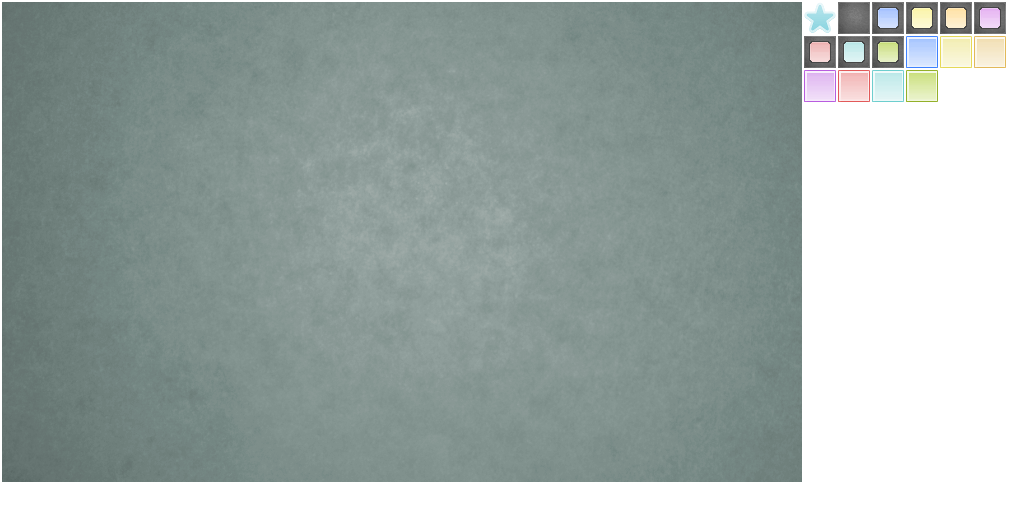
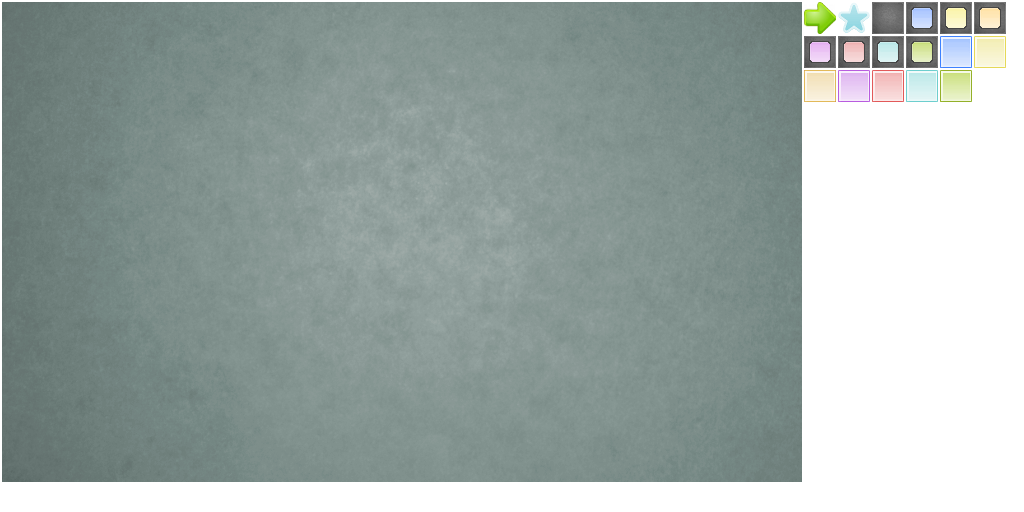
Added arrows. Added LevelScene class. Stars disappear from now!

Changed region(s): [[0.7812, 0.0, 1.0, 0.2188]]

diff --git a/src/com/bugfullabs/qube/level/LevelSceneFactory.java b/src/com/bugfullabs/qube/level/LevelSceneFactory.java
@@ -1,10 +1,10 @@
 package com.bugfullabs.qube.level;
 
-import org.anddev.andengine.entity.scene.Scene;
 import org.anddev.andengine.entity.scene.background.SpriteBackground;
 import org.anddev.andengine.entity.sprite.Sprite;
 import org.anddev.andengine.extension.texturepacker.opengl.texture.util.texturepacker.TexturePack;
 
+import com.bugfullabs.qube.game.CubeEntity;
 import com.bugfullabs.qube.game.GameValues;
 
 
@@ -29,13 +29,13 @@ public class LevelSceneFactory{
 	public static final int END6_ID = 13;
 	public static final int SOLID_ID = 14;
 	public static final int STAR_ID = 15;	
-	public static final int BG_ID = 16;
-	
+	public static final int BG_ID = 17;
+	public static final int ARROW_ID = 16;
 
 	
-	public static Scene createScene(Level level, TexturePack txPack){	
+	public static LevelScene createScene(Level level, TexturePack txPack){	
 			
-			Scene levelScene = new Scene();	
+			LevelScene levelScene = new LevelScene(level.getNumberOfCubes());	
 			  
 			levelScene.setBackground(new SpriteBackground(new Sprite(0, 0, txPack.getTexturePackTextureRegionLibrary().get(BG_ID))));
 
@@ -50,7 +50,7 @@ public class LevelSceneFactory{
 		    		  break;
 
 		    	  case GameValues.ITEM_STAR:	//STAR
-		    		  levelScene.attachChild(new Sprite(i*32, j*32, txPack.getTexturePackTextureRegionLibrary().get(STAR_ID)));
+		    		  levelScene.addStar(new Sprite(i*32, j*32, txPack.getTexturePackTextureRegionLibrary().get(STAR_ID)));
 		    		  break;
 		    		  
 			  	  default:
@@ -73,6 +73,45 @@ public class LevelSceneFactory{
 				level.getCube(i).setTextureRegion(txPack.getTexturePackTextureRegionLibrary().get(level.getCube(i).getColor()));
 				level.getCube(i).attachToScene(levelScene);
 				level.getCube(i).setPosition(level.getCube(i).getX(), level.getCube(i).getY());
+			
+				Sprite arrow = new Sprite(level.getCube(i).getX(), level.getCube(i).getY(), txPack.getTexturePackTextureRegionLibrary().get(ARROW_ID));
+				
+				
+				switch(level.getCube(i).getDirection()){
+				
+				case CubeEntity.DIRECTION_FORWARD:
+					arrow.setPosition(level.getCube(i).getX(), level.getCube(i).getY()-32);
+					arrow.setRotation(270);
+					levelScene.attachChild(arrow);
+				
+					break;
+					
+				case CubeEntity.DIRECTION_BACKWARD:
+					arrow.setPosition(level.getCube(i).getX(), level.getCube(i).getY()+32);
+					arrow.setRotation(90);
+					levelScene.attachChild(arrow);
+				
+					break;
+					
+				case CubeEntity.DIRECTION_LEFT:
+					
+					arrow.setPosition(level.getCube(i).getX()-32, level.getCube(i).getY());
+					arrow.setRotation(180);
+					levelScene.attachChild(arrow);
+				
+					break;
+	
+				case CubeEntity.DIRECTION_RIGHT:
+					arrow.setPosition(level.getCube(i).getX()+32, level.getCube(i).getY());
+					arrow.setRotation(0);
+					levelScene.attachChild(arrow);
+
+					break;
+	
+					
+				}
+			
+				
 			}
 			
 			

diff --git a/src/com/bugfullabs/qube/GameActivity.java b/src/com/bugfullabs/qube/GameActivity.java
@@ -29,6 +29,7 @@ import android.graphics.Typeface;
 import android.util.Log;
 import com.bugfullabs.qube.level.Level;
 import com.bugfullabs.qube.level.LevelFileReader;
+import com.bugfullabs.qube.level.LevelScene;
 import com.bugfullabs.qube.level.LevelSceneFactory;
 import com.bugfullabs.qube.util.AlignedText;
 import com.bugfullabs.qube.util.Button;
@@ -62,7 +63,7 @@ public class GameActivity extends LoadingActivity{
 
 	private static boolean outside;
 	
-	private Scene gameScene;
+	private LevelScene gameScene;
 	private Scene scoreScene;
 	
 	
@@ -373,12 +374,10 @@ public class GameActivity extends LoadingActivity{
 			break;
 
 		case GameValues.ITEM_STAR:
-
-			//FIXME: STAR HAS TO DISAPEAR
 			
 			mItemsHUD.setStars(stars);
 			stars++;
-			
+			gameScene.removeStar(level.getCube(cubeId).getX(), level.getCube(cubeId).getY());
 			break;			
 		
 		
@@ -466,6 +465,7 @@ public class GameActivity extends LoadingActivity{
 			@Override
 			public boolean onButtonPressed(){
 				GameActivity.this.finish();
+				overridePendingTransition(R.anim.fadein, R.anim.fadeout);
 				return true;
 			}
 		};

diff --git a/src/com/bugfullabs/qube/level/LevelScene.java b/src/com/bugfullabs/qube/level/LevelScene.java
@@ -1,0 +1,54 @@
+package com.bugfullabs.qube.level;
+
+import java.util.ArrayList;
+
+import org.anddev.andengine.entity.scene.Scene;
+import org.anddev.andengine.entity.sprite.Sprite;
+
+
+
+public class LevelScene extends Scene{
+	
+	private ArrayList<Sprite> mArrows;
+	private ArrayList<Sprite> mStars;
+	
+	LevelScene(int numberOfCubes){
+		super();
+	
+		mStars = new ArrayList<Sprite>(3);
+		mArrows = new ArrayList<Sprite>(numberOfCubes);
+		
+	}
+	
+	public void addStar(Sprite star){
+		mStars.add(star);
+		this.attachChild(star);
+	}
+
+	public void removeStar(float x, float y){
+		
+		int index1 = 0;
+		int index2 = 1;
+		
+		for(int i = 0; i < 3; i++){
+
+			if(mStars.get(i).getX() == x){
+				index1 = i;
+				break;
+			}
+			if(mStars.get(i).getY() == y){
+				index2 = i;
+				break;
+			}
+		
+		}
+		
+		if(index1 == index2){
+		mStars.get(index1).detachSelf();
+		}
+		
+	}
+	
+	
+}
+

diff --git a/src/com/bugfullabs/qube/game/ItemEntity.java b/src/com/bugfullabs/qube/game/ItemEntity.java
@@ -199,14 +199,11 @@ public class ItemEntity implements ITouchArea{
 		return (pX >= rX && pX <= rX+64 && pY >= rY && pY <= rY+32);
 		
 		case TEMPLATE_2_2:
-		//TODO
-			
-		return (pX >= mX && pX <= mX+64 && pY >= mY && pY <= mY+64);
+		return ((pX >= rX16+32 && pX <= rX16+64 && pY >= rY16 && pY <= rY16+32) || (pX >= rX16 && pX <= rX16+32 && pY >= rY16+32 && pY <= rY16+64));
 		
 		case TEMPLATE_3:
-		//TODO
-			
-		return (pX >= mX && pX <= mX+64 && pY >= mY && pY <= mY+64);
+					
+		return ((pX >= rX16 && pX <= rX16+64 && pY >= rY16+32 && pY <= rY+64) || (pX >= rX16 && pX >= rX16+32 && pY >= rY16 && pY >= rY16+32));
 		
 		case TEMPLATE_4:
 		return (pX >= rX16 && pX <= rX16+64 && pY >= rY16 && pY <= rY16+64);

diff --git a/src/com/bugfullabs/qube/game/CubeEntity.java b/src/com/bugfullabs/qube/game/CubeEntity.java
@@ -1,12 +1,10 @@
 package com.bugfullabs.qube.game;
 
 import org.anddev.andengine.entity.IEntity;
-import org.anddev.andengine.entity.modifier.IEntityModifier;
 import org.anddev.andengine.entity.modifier.MoveModifier;
 import org.anddev.andengine.entity.scene.Scene;
 import org.anddev.andengine.entity.sprite.Sprite;
 import org.anddev.andengine.opengl.texture.region.TextureRegion;
-import org.anddev.andengine.util.modifier.IModifier;
 
 
 
@@ -126,5 +124,14 @@ public class CubeEntity {
 		this.y = endY;
 
 		
+	}
+	
+	
+	public void attachChild(IEntity pEntity){
+		sprite.attachChild(pEntity);
+	}
+	
+	public void detachChildren(){
+		sprite.detachChildren();
 	}
 }
